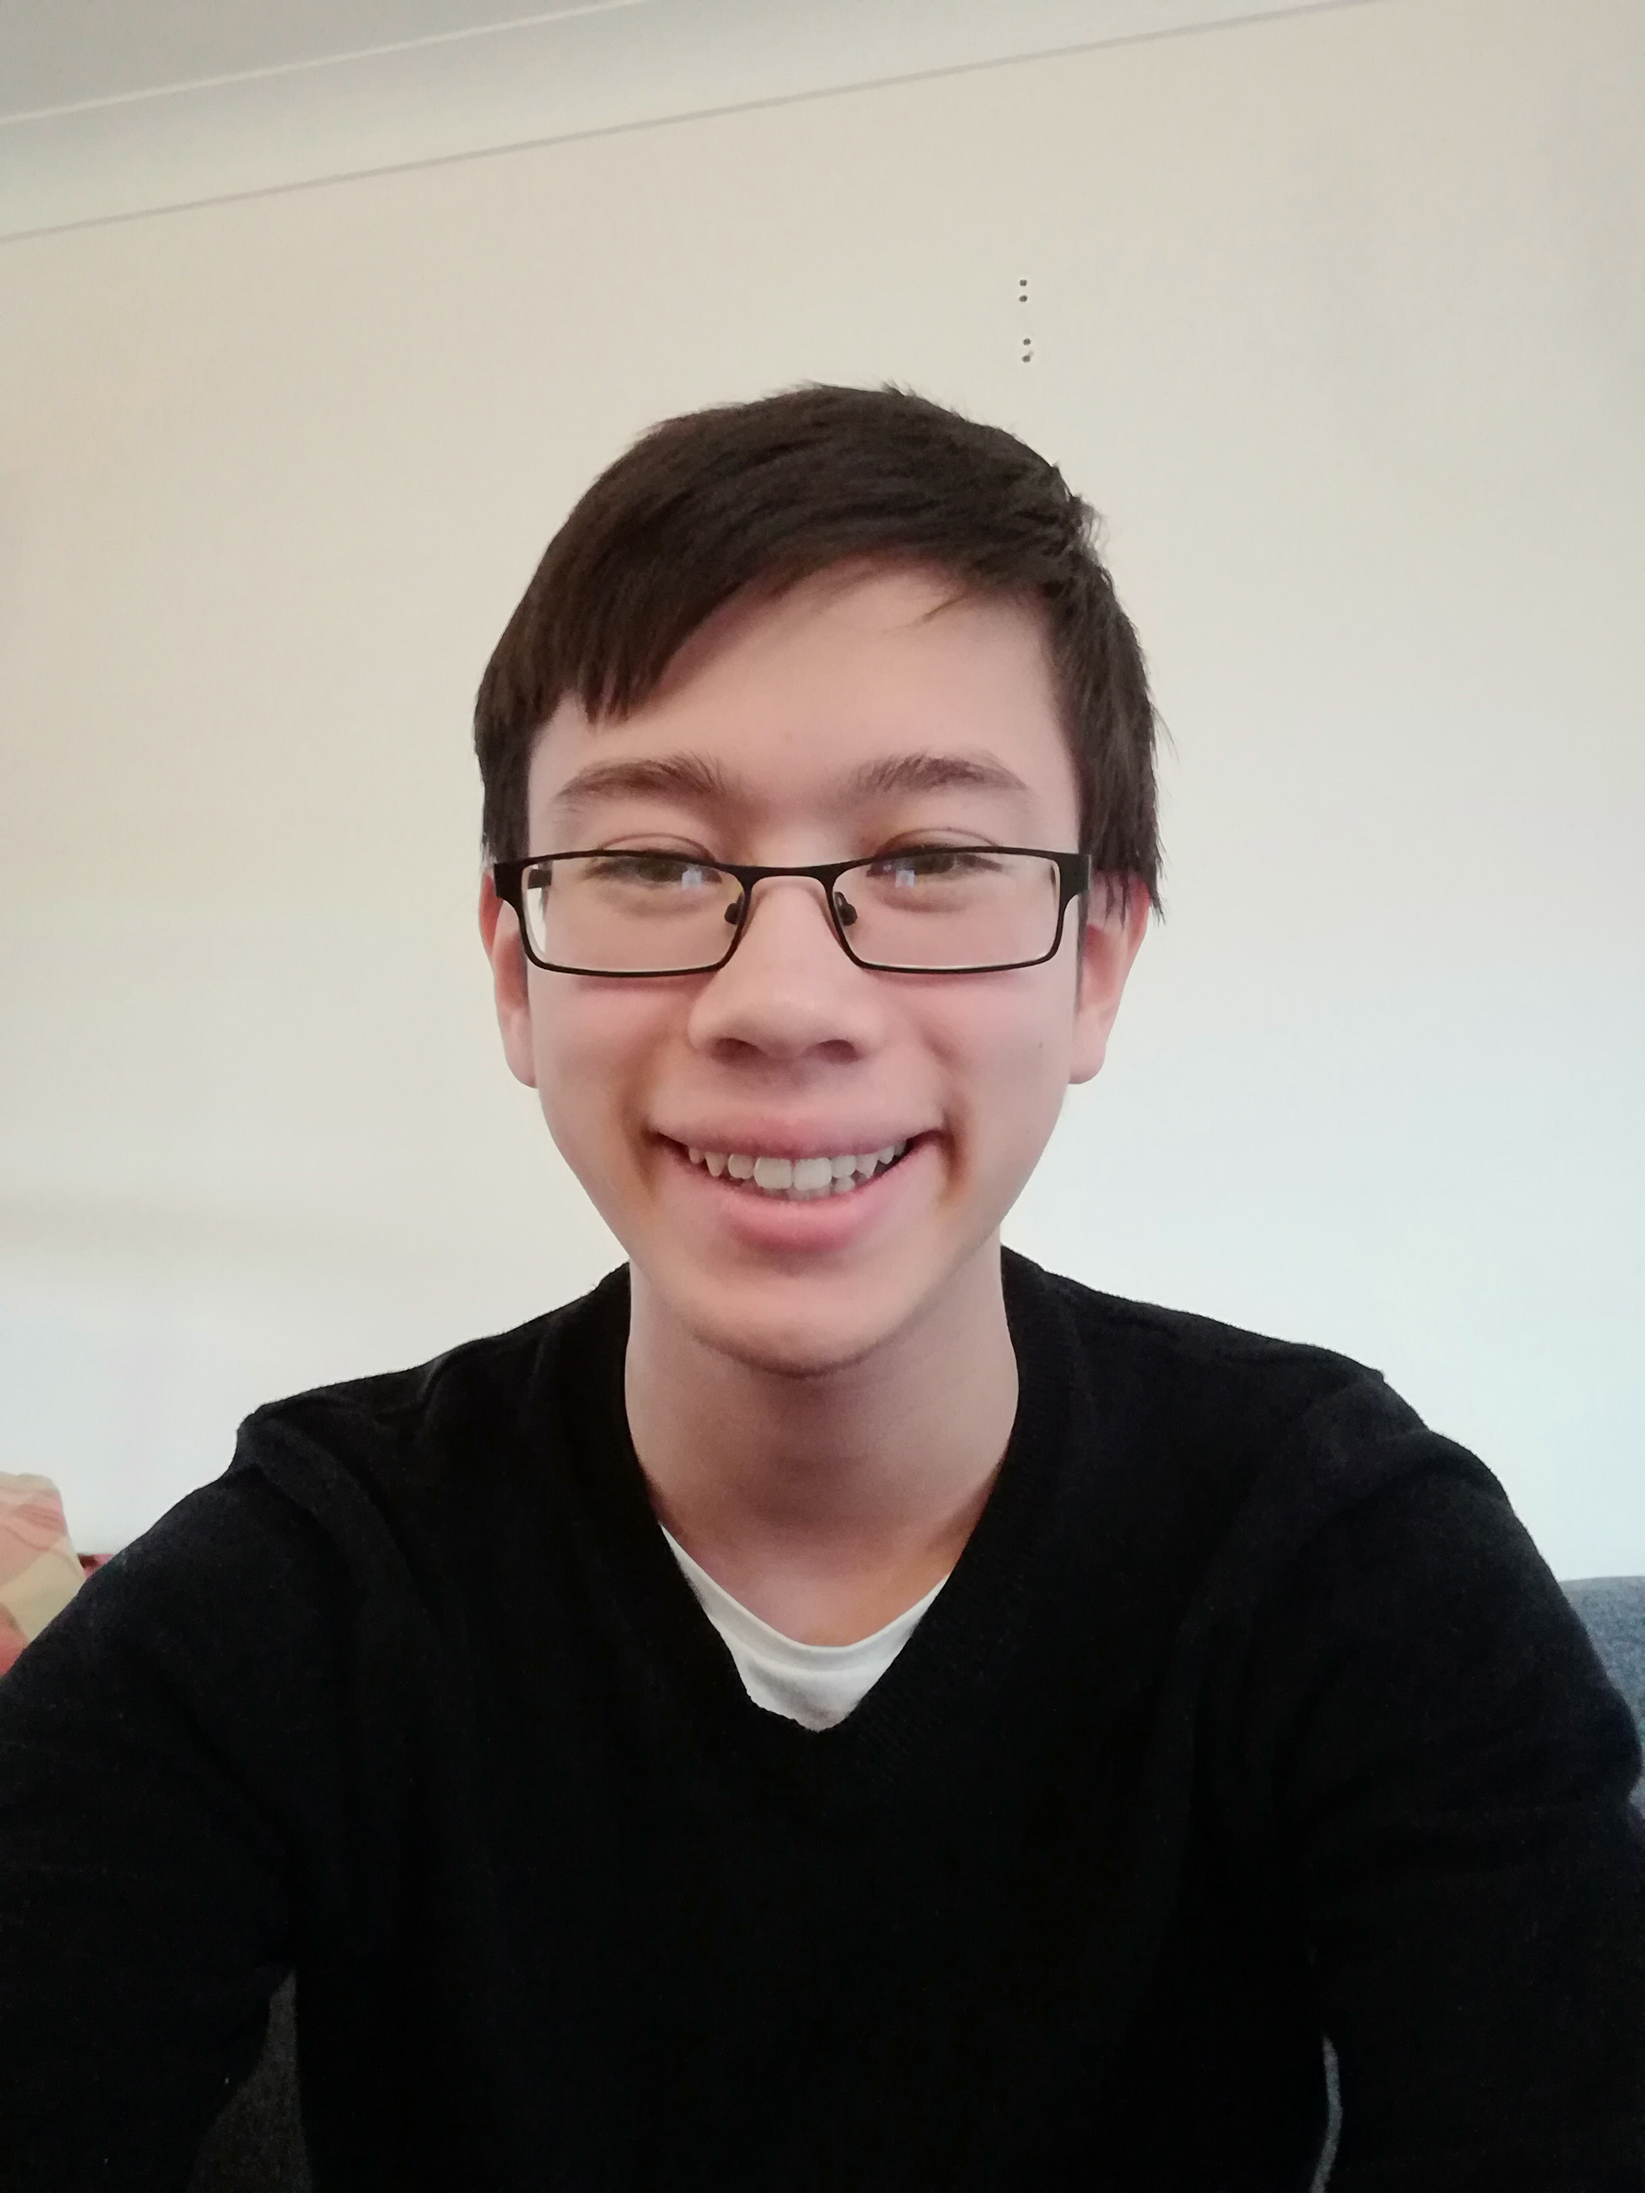
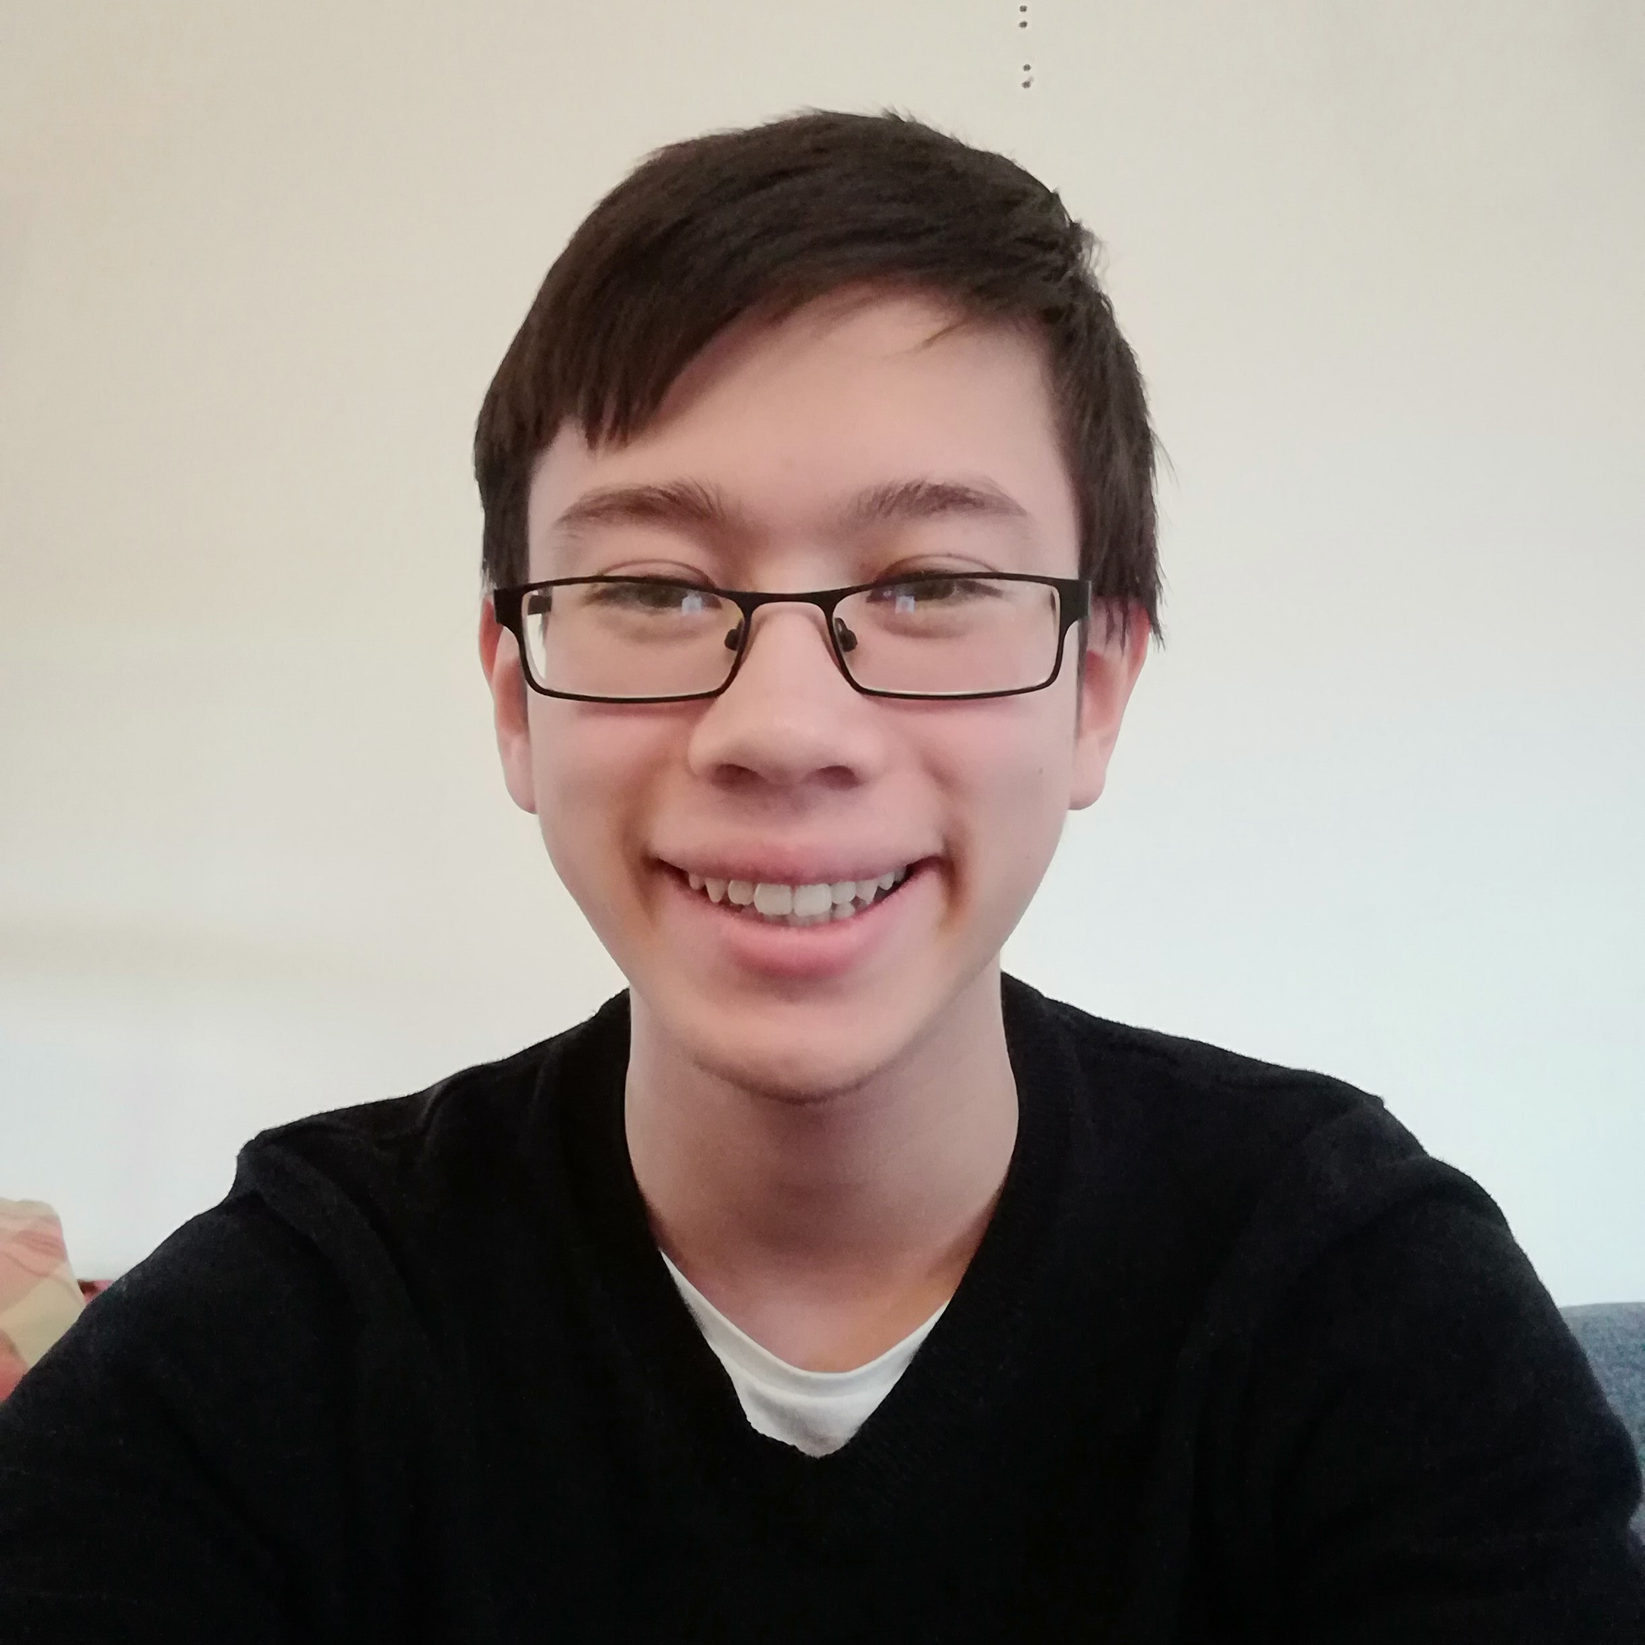
committee page
fixed aspect ratios, added 2 bios

diff --git a/committee.html b/committee.html
@@ -36,10 +36,15 @@
 				its extension (eg. images/banner). Your video must be available in both .mp4 and .webm
 				formats to work correctly.
 			-->
-				<div class="inner">
-					<header>
-					</header>
-				</div>
+				<section id="banner" data-video="images/DSC_0689">
+					<div class="inner">
+						<header>
+							<h1>The SVGE Committee for 2019</h1>
+							<p>Meet the Team<br /></p>
+						</header>
+						<a href="#main" class="more">Learn More</a>
+					</div>
+				</section>
 
 			<!-- Main -->
 				<div id="main">
@@ -111,6 +116,22 @@
 									<p>Hey I'm Jack, the Counter Strike : Global Offensive (CSGO) Competitions Officer. I organise university CSGO events both internal and external tournaments and matches. I also aim to arrange as many LANs and online university matches as possible. As well as this, every academic year there are 2 seasons of tournaments for both NSE and NUEL I ensure that we have as many teams as possible for these competitions so everyone enjoys themselves.</p>
 								</div>
 							</div>
+							
+							<div class="box">
+								<img src="images/committee/crumpets.png" alt="" class="image fit">
+								<div class="inner">
+									<h3>Rhys AKA: Cpt. Crumpets</h3>
+									<p>My name's Rhys and I'm responsible for the maintenance and upkeep of the society equipment, and offer advice on purchases within the society. Talk to me if you've got any ideas for what you want the society to buy next, my job is to try and make sure you get the equipment that you want in order to have fun and enjoy your time in the society.<br><br>If you've got any questions, feel free to message me on Discord and I'll get back to you as soon as I can.</p>
+								</div>
+							</div>
+							
+							<div class="box">
+								<img src="images/committee/schwaglord.png" alt="" class="image fit">
+								<div class="inner">
+									<h3>Dan AKA: Schwaglord</h3>
+									<p>I'm head of events for SVGE, my job is to organise and help out the society set up events.  I play lots of League of Legends despite being terrible at it and have an extreme passion for wasting my time modding Skyrim or Fallout.<br><br>If you have any questions about any upcoming events, want to set up your own events  (please do it makes my job easier) or just want to chat, feel free to message me on discord(Schwͭaͪgͤl⓿rd̳#7520) or email the society email svge@soton.ac.uk.</p>
+								</div>
+							</div>
 
 						</div>
 
@@ -131,7 +152,7 @@
 -->
 							<li><a href="mailto:SVGe@soton.ac.uk" class="icon fa-envelope"><span class="label">Email</span></a></li>
 						</ul>
-						<p class="copyright">&copy; SVGE 2018. Design: <a href="https://templated.co">TEMPLATED</a>. Images: <a href="https://unsplash.com/">Unsplash</a>. Videos: <a href="http://coverr.co/">Coverr</a>.</p>
+						<p class="copyright">&copy; SVGE 2018. Design: <a href="https://templated.co">TEMPLATED</a>. Images: SVGE.</p>
 					</div>
 				</footer>
 

diff --git a/index.html b/index.html
@@ -39,7 +39,7 @@
 				<section id="banner" data-video="images/DSC_0689">
 					<div class="inner">
 						<header>
-							<h1>SVGe</h1>
+							<h1>SVGE</h1>
 							<p>Home of Gaming at the University of Southampton<br /></p>
 						</header>
 						<a href="#main" class="more">Learn More</a>
@@ -57,7 +57,7 @@
 								<a href="https://www.susu.org/groups/southampton-university-esports-society" class="image fit"><img src="images/ROG_LAN.jpg" alt="" /></a>
 								<div class="inner">
 									<h3>Join us!</h3>
-									<p>SVGe is a part of the Southampton University Students' Union. Registration is free, and instructions can be found on the site.</p>
+									<p>SVGE is a part of the Southampton University Students' Union. Registration is free, and instructions can be found on the site.</p>
 									<a href="https://www.susu.org/groups/southampton-university-esports-society" class="button fit">Visit the SUSU Website</a>
 								</div>
 							</div>
@@ -66,7 +66,7 @@
 								<a href="https://www.nse.gg/universities/university-of-southampton" class="image fit"><img src="images/nse-logo-dark.jpg" alt="" /></a>
 								<div class="inner">
 									<h3>NSE</h3>
-									<p>SVGe is a member of the National Student Esports body. We have many teams registered for a wide variety of games.</p>
+									<p>SVGE is a member of the National Student Esports body. We have many teams registered for a wide variety of games.</p>
 									<a href="https://www.nse.gg/universities/university-of-southampton" class="button style3 fit">Visit our Page</a>
 								</div>
 							</div>
@@ -126,7 +126,7 @@
 -->
 							<li><a href="mailto:SVGe@soton.ac.uk" class="icon fa-envelope"><span class="label">Email</span></a></li>
 						</ul>
-						<p class="copyright">&copy; SVGE 2018. Design: <a href="https://templated.co">TEMPLATED</a>. Images: <a href="https://unsplash.com/">Unsplash</a>. Videos: <a href="http://coverr.co/">Coverr</a>.</p>
+						<p class="copyright">&copy; SVGE 2018. Design: <a href="https://templated.co">TEMPLATED</a>. Images: SVGE.</p>
 					</div>
 				</footer>
 
